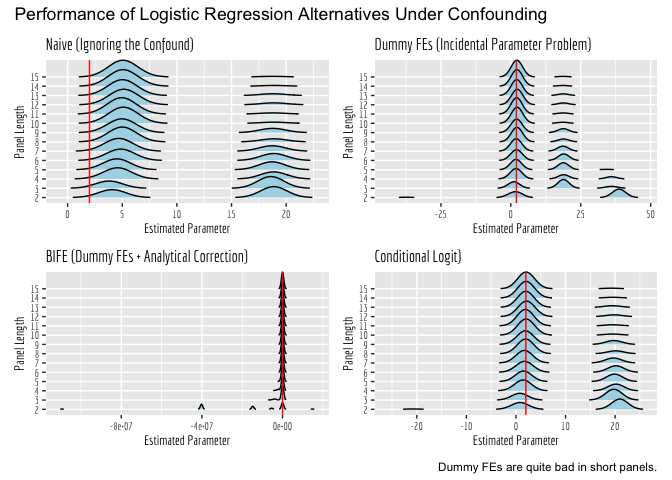
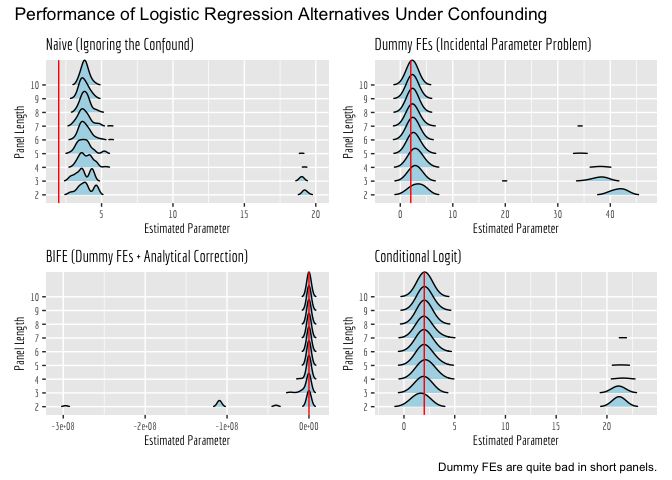
update.

diff --git a/_posts/2021-03-08-logit-ipp.md b/_posts/2021-03-08-logit-ipp.md
@@ -63,10 +63,10 @@ then combine the units into a data frame.
 
 ``` r
 # I begin by setting some simulation parameters.
-set.seed(12345)
+set.seed(2040)
 n <- 100
 sims <- 100
-panel_max <- 15
+panel_max <- 10
 
 # Lastly, for each panel unit
 confound <- rnorm(n, mean = 0, sd=1)
@@ -161,22 +161,22 @@ screenreg(list(logit_mod_omit,logit_mod_ipp,logit_mod_bife,logit_mod_fe,logit_mo
 ```
 
     ## 
-    ## ========================================================================================
-    ##                 logit         logit + dummies  bife         clogit       logit + control
-    ## ----------------------------------------------------------------------------------------
-    ## Treat_center       4.684 ***     1.791 **         1.683 **     1.685 **     1.627 **    
-    ##                   (0.506)       (0.581)          (0.565)      (0.567)      (0.536)      
-    ## ----------------------------------------------------------------------------------------
-    ## AIC             1627.689       715.132                       413.710      607.953       
-    ## BIC             1638.316      1251.768                                    623.892       
-    ## Log Likelihood  -811.845      -256.566         -256.584                  -300.976       
-    ## Deviance        1623.689       513.132          513.168                   601.953       
-    ## Num. obs.       1500          1500              615         1500         1500           
-    ## R^2                                                            0.008                    
-    ## Max. R^2                                                       0.246                    
-    ## Num. events                                                  857                        
-    ## Missings                                                       0                        
-    ## ========================================================================================
+    ## ==========================================================================================
+    ##                 logit         logit + dummies  bife          clogit        logit + control
+    ## ------------------------------------------------------------------------------------------
+    ## Treat_center       3.481 ***     1.551 ***        1.391 ***     1.394 ***     1.618 ***   
+    ##                   (0.277)       (0.363)          (0.354)       (0.343)       (0.323)      
+    ## ------------------------------------------------------------------------------------------
+    ## AIC             1063.720       594.164                        296.280       471.803       
+    ## BIC             1073.536      1089.847                                      486.526       
+    ## Log Likelihood  -529.860      -196.082         -196.181                    -232.901       
+    ## Deviance        1059.720       392.164          392.362                     465.803       
+    ## Num. obs.       1000          1000              440          1000          1000           
+    ## R^2                                                             0.019                     
+    ## Max. R^2                                                        0.269                     
+    ## Num. events                                                   479                         
+    ## Missings                                                        0                         
+    ## ==========================================================================================
     ## *** p < 0.001; ** p < 0.01; * p < 0.05
 
 # Visualizing the Distribution of Estimates
